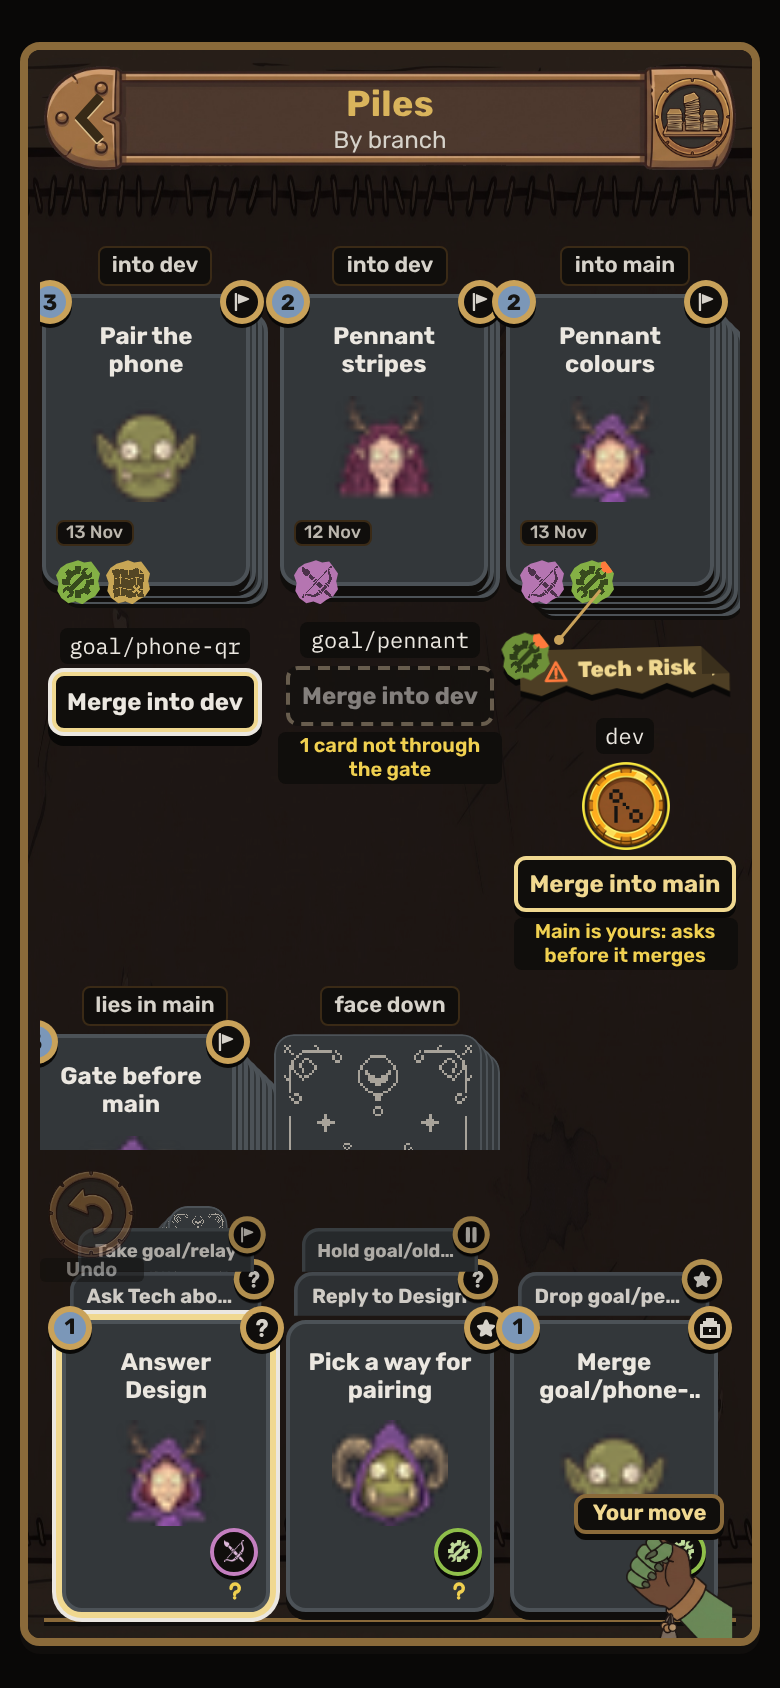
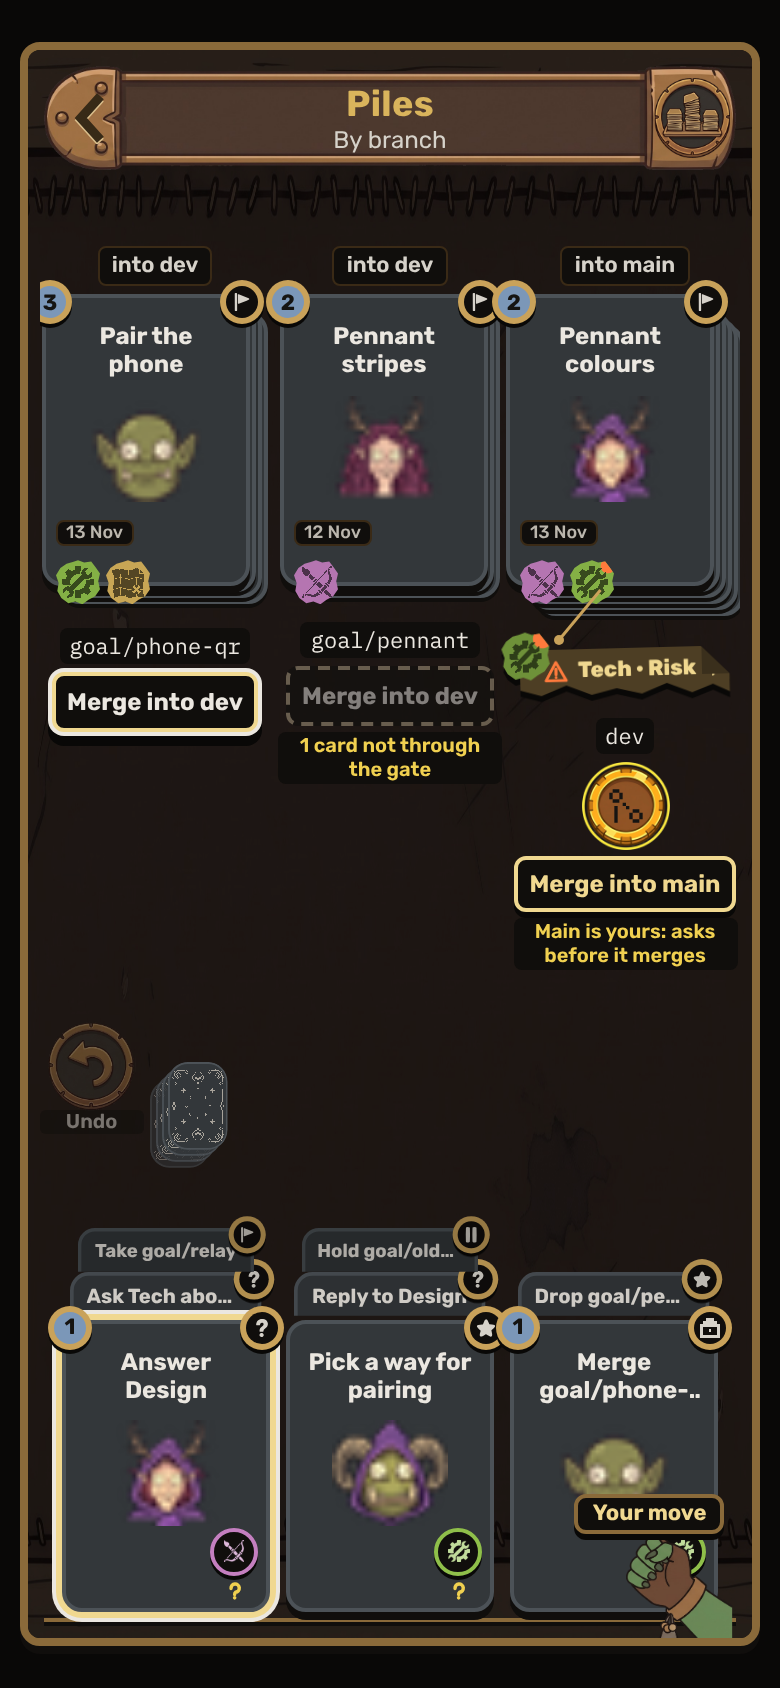
Mat mockups round 11: Piles' phone drum across the whole row
Claude-Session: https://claude.ai/code/session_01MCU3dnmwpxzAdFr5WE7TTZ

Changed region(s): [[0.0308, 0.5853, 0.6462, 0.7701]]

diff --git a/docs/mockups/mat-scenes/piles.html b/docs/mockups/mat-scenes/piles.html
@@ -569,7 +569,8 @@ body[data-face="phone"] .bkc { width: 126px; }
 .pick7 .finger7 { left: 152px; bottom: -50px; width: 120px; rotate: -48deg; z-index: 7; }
 body[data-state="pick"] .row7 .card.foc { translate: 0 -48px; }
 body[data-face="phone"] .pc .slip.beside { position: relative; left: auto; top: auto; width: 112px; margin-top: 12px; }
-body[data-face="phone"] .row { bottom: 244px; gap: 8px 2px; }
+body[data-face="phone"] .row { bottom: 330px !important; gap: 8px 2px; }
+body[data-face="phone"] .u7 { bottom: 252px; } body[data-face="phone"] .wp7 { bottom: 236px; }
 body[data-face="phone"] .pc { width: 112px; } body[data-face="phone"] .pc.wide { margin-right: 0; }
 body[data-face="phone"] .pick7 .finger7 { left: 55px; bottom: -47px; width: 90px; }
 body[data-state="pick"] .row7 .card.foc { translate: 0 -30px; }
